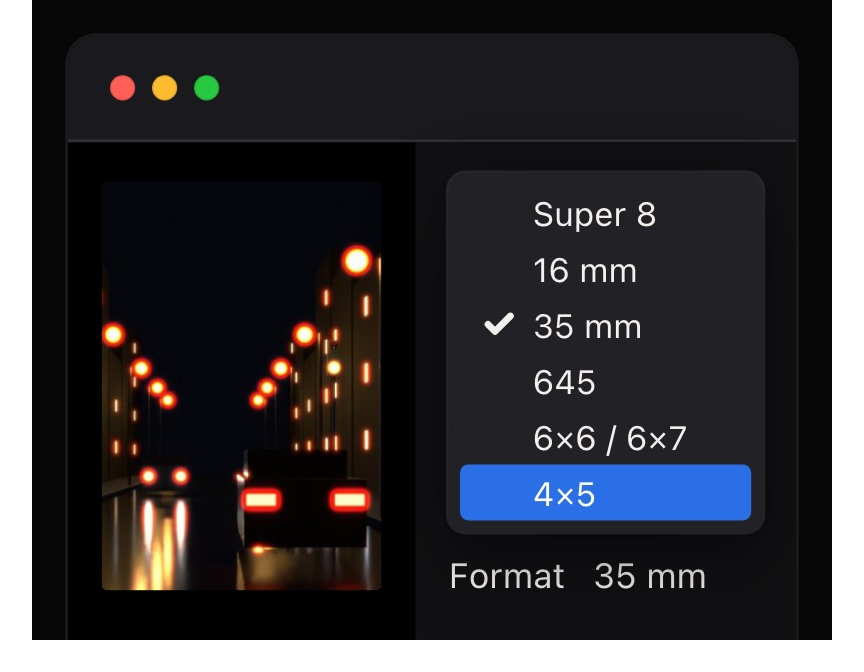
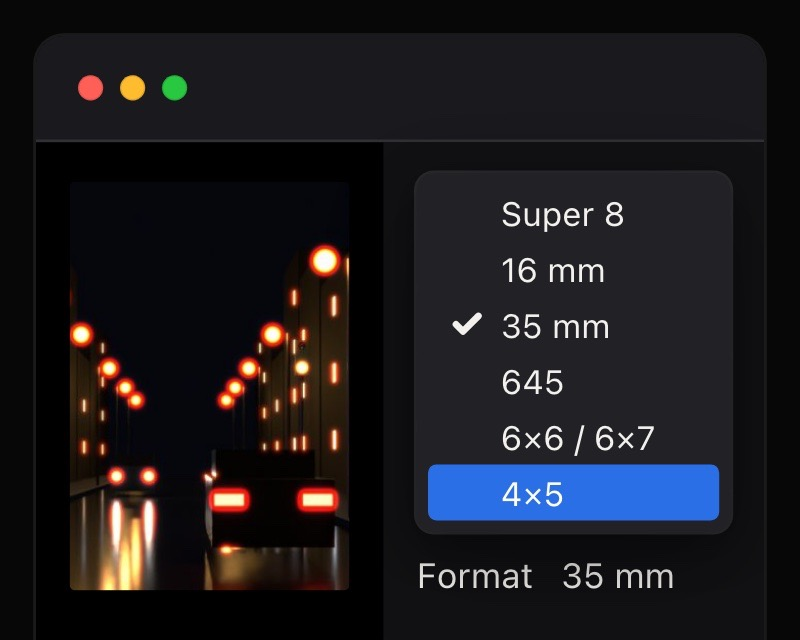
Review fixes: posters cropped, 42× stat and Export All wording, story points at the street, hero spacing; CLAUDE.md and handoff for the stageshow branch

Changed region(s): [[0.0, 0.0, 1.0, 1.0], [0.625, 0.2812, 0.7812, 0.4375], [0.0938, 0.0938, 0.25, 0.1562]]

diff --git a/index.html b/index.html
@@ -89,7 +89,7 @@
   </div>
   <div class="wrap">
     <figure class="stage stage--hero" data-stage="halo-hero" aria-label="Halo Pro: the Amount slider is dragged up and the street lamps grow their red halos; Format 16 mm widens them">
-      <img class="stage-poster" src="img/stage/halo-hero.jpg" width="2464" height="1312" alt="Halo Pro's window with a night street open: red halos around every lamp, the Amount slider at 1, Format 16 mm" loading="eager" fetchpriority="high">
+      <img class="stage-poster" src="img/stage/halo-hero.jpg" width="2400" height="1280" alt="Halo Pro's window with a night street open: red halos around every lamp, the Amount slider at 1, Format 16 mm" loading="eager" fetchpriority="high">
     </figure>
     <p class="shot-meta hero-caption">Drawn live, with the app's own controls. The street is a rendered scene with real light levels; the glow is Halo Pro's own export of it.</p>
   </div>
@@ -109,26 +109,26 @@
     <div class="bento">
       <article class="tile tile--wide">
         <figure class="stage" data-stage="halo-batch" aria-label="Batch Mode: a grid of photos, one selected, with Apply to All">
-          <img class="stage-poster" src="img/stage/halo-batch.jpg" width="1648" height="752" alt="A grid of photo thumbnails in Halo Pro's Batch Mode, one in focus with its name and an Apply to All button" loading="lazy">
+          <img class="stage-poster" src="img/stage/halo-batch.jpg" width="1584" height="720" alt="A grid of photo thumbnails in Halo Pro's Batch Mode, one in focus with its name and an Apply to All button" loading="lazy">
         </figure>
         <p class="tile-copy"><b>Batch Mode.</b> Up to 500 photos open at once, each with its own settings; Apply to All copies one look across the set.</p>
       </article>
       <article class="tile tile--stat">
-        <p class="stat"><span class="stat-lead">Glow at five stops over white</span><span class="stat-num">42×</span><span class="stat-label">the glow at white, measured on 32-bit test charts. It doubles with every stop, as on film.</span></p>
+        <p class="stat"><span class="stat-lead">Glow at five stops over white</span><span class="stat-num">42×</span><span class="stat-label">the glow at white, measured on 32-bit test charts. Film's glow grows with the light, about twice per stop. So does this.</span></p>
       </article>
       <article class="tile">
         <figure class="stage" data-stage="halo-format" aria-label="The Format menu: Super 8 to 4×5; picking a film changes how far the glow travels">
-          <img class="stage-poster" src="img/stage/halo-format.jpg" width="864" height="672" alt="Halo Pro's Format menu open over the Glow controls, 35 mm checked, the cursor on 4×5" loading="lazy">
+          <img class="stage-poster" src="img/stage/halo-format.jpg" width="800" height="640" alt="Halo Pro's Format menu open over the Glow controls, 35 mm checked, the cursor on 4×5" loading="lazy">
         </figure>
         <p class="tile-copy"><b>Format.</b> Pick the film your photo should look shot on, Super 8 to 4×5, and the glow takes that film's share of the frame.</p>
       </article>
       <article class="tile tile--statement">
         <p class="statement">One look in sRGB, Display&nbsp;P3, Adobe&nbsp;RGB and ProPhoto&nbsp;RGB.</p>
-        <p class="tile-copy">The glow and the mist are worked out in one working colour space, so a wide-gamut file from Lightroom glows exactly like its sRGB export. Your file keeps its profile.</p>
+        <p class="tile-copy">The glow and the mist are worked out in one working colour space, so a wide-gamut file from Lightroom glows like its sRGB export. Your file keeps its profile.</p>
       </article>
       <article class="tile">
         <figure class="stage" data-stage="halo-masking" aria-label="Halation › Masking: Sky Protection switched on">
-          <img class="stage-poster" src="img/stage/halo-masking.jpg" width="864" height="712" alt="Halo Pro's Masking panel: Luminance Range on, Sky Protection being switched on, Color Mask off" loading="lazy">
+          <img class="stage-poster" src="img/stage/halo-masking.jpg" width="800" height="680" alt="Halo Pro's Masking panel: Luminance Range on, Sky Protection being switched on, Color Mask off" loading="lazy">
         </figure>
         <p class="tile-copy"><b>Choose where it glows.</b> Keep it inside a brightness band, hold it back from the sky, or keep it to a colour you pick. Press a number key to see exactly what the engine uses.</p>
       </article>
@@ -576,7 +576,7 @@
     <div class="pro-grid">
       <div class="pro-item">
         <figure class="stage stage--return" data-stage="halo-return" aria-label="Save and return: the edit goes back to Lightroom Classic as a 16-bit TIFF">
-          <img class="stage-poster" src="img/stage/halo-return.jpg" width="864" height="632" alt="The top of Halo Pro's control column: Save and return has become Saved, and a line says a 16-bit TIFF was written back to Lightroom Classic" loading="lazy">
+          <img class="stage-poster" src="img/stage/halo-return.jpg" width="800" height="600" alt="The top of Halo Pro's control column: Save and return has become Saved, and a line says a 16-bit TIFF was written back to Lightroom Classic" loading="lazy">
         </figure>
         <h3>Lightroom Mode.</h3>
         <p>Add Halo Pro once in Lightroom Classic as an additional external editor. Then right-click a photo, Edit In, Halo Pro: Lightroom hands over a TIFF, you set the look, and Save and return writes a 16-bit TIFF back with its metadata. One photo at a time; for a set, export TIFFs from Lightroom, run them through Batch Mode and import the results back.</p>
@@ -584,7 +584,7 @@
       </div>
       <div class="pro-item">
         <h3>Batch Mode.</h3>
-        <p>Open up to 500 photos at once; loading stops if less than 1.5&nbsp;GB of memory is free. Each photo keeps its own settings. Apply to All copies one look across the set, and Cmd+C / Cmd+V copy a look between photos. The Batch Exp button writes every photo with its own settings and never overwrites a file: a name that's taken gets a number.</p>
+        <p>Open up to 500 photos at once; loading stops if less than 1.5&nbsp;GB of memory is free. Each photo keeps its own settings. Apply to All copies one look across the set, and Cmd+C / Cmd+V copy a look between photos. Export All writes every photo with its own settings and never overwrites a file: a name that's taken gets a number.</p>
       </div>
     </div>
 
@@ -598,7 +598,7 @@
       <div class="tier tier--main">
         <h3>Halo Pro</h3>
         <p class="price">€20<small>one-time, for one person</small></p>
-        <ul><li>Everything in Free</li><li>Lightroom Mode: Edit In, Save and return</li><li>Batch Mode, up to 500 photos</li><li>Licensed for paid work</li><li>Free updates in your Gumroad library</li></ul>
+        <ul><li>Everything in Free</li><li>Lightroom Mode: Edit In, Save and return</li><li>Batch Mode</li><li>Licensed for paid work</li><li>Free updates in your Gumroad library</li></ul>
         <a class="btn btn--solid" href="https://alriclj.gumroad.com/l/HALO_PRO?variant=Halo%20Pro&amp;wanted=true">Buy Pro · €20</a>
       </div>
       <div class="tier">
@@ -628,7 +628,7 @@
     </div>
     <div class="story">
       <h3>Where it comes from.</h3>
-      <p>Look at the street at the top of this page. Panning past at speed, a chrome strip catches the light and gets a red-orange edge; a lamp four stops over white gets a wide halo, and the dark wall beside it gets none. That is what film does. Light goes through the emulsion, bounces off the back of the base and comes back up into the red-sensitive layer, and only the brightest lights come back. Most glow effects blur everything bright and tint it red.</p>
+      <p>Look at the street at the top of this page. The brightest lamps get wide red-orange halos, the dimmer windows get small ones, and the dark walls between them get none. That is what film does. Light goes through the emulsion, bounces off the back of the base and comes back up into the red-sensitive layer, and only the brightest lights come back. Most glow effects blur everything bright and tint it red.</p>
       <p>I'm a photographer, and I build my own tools when the ones I can buy get the light wrong. In 2024 I started reading how halation really forms, and built a tool that does what the film does: the glow worked out from each light's colour and real brightness, in 32-bit float. It shipped in September. In October I checked it against the physics, threw the engine away and rebuilt it.</p>
       <p>The free version has every control. Pro is 20 euros, once. Try it on yours.</p>
       <p class="story-sign">Alric Ljunghager, Stockholm · <a href="mailto:alric.ljunghager@gmail.com">alric.ljunghager@gmail.com</a>. Settings › Help › Report Bug copies a report with the log; I read every one.</p>

diff --git a/style.css b/style.css
@@ -108,11 +108,11 @@ p { margin: 0 0 1em; }
 .hero-grain { position: absolute; inset: -200px; z-index: 1; pointer-events: none; opacity: .06; animation: grain .5s steps(1) infinite; }
 @keyframes grain { 0% { transform: translate(0, 0); } 20% { transform: translate(-83px, 47px); } 40% { transform: translate(61px, -112px); }
   60% { transform: translate(-129px, -38px); } 80% { transform: translate(104px, 91px); } }
-.hero-copy { position: relative; z-index: 2; padding-top: 150px; width: 100%; } /* full width inside the flex column */
+.hero-copy { position: relative; z-index: 2; padding-top: 120px; width: 100%; } /* full width inside the flex column */
 .hero h1 { font-size: var(--t-display); line-height: .94; letter-spacing: -0.045em; max-width: 9.5em; }
 .hero h1 em { font-style: normal; color: var(--red); text-shadow: var(--glow); }
-.hero-sub { margin-top: 32px; max-width: 30em; font-size: var(--t-lead); color: var(--fg-2); }
-.hero-cta { display: flex; align-items: center; gap: 28px; margin-top: 36px; flex-wrap: wrap; }
+.hero-sub { margin-top: 24px; max-width: 30em; font-size: var(--t-lead); color: var(--fg-2); }
+.hero-cta { display: flex; align-items: center; gap: 28px; margin-top: 28px; flex-wrap: wrap; }
 .hero-foot {
   position: absolute; z-index: 2; left: 0; right: 0; bottom: 28px;
 }
@@ -681,7 +681,7 @@ html:not(.js) .nav-toggle, html:not(.js) .toggle, html:not(.js) .tour-tabs, html
 /* once the demo mounts, its own frame replaces the poster */
 .stage:has(.ss-fit) .stage-poster { display: none; }
 .stage .ss-stage { border-radius: 10px; }
-.stage--hero { margin-top: 56px; }
+.stage--hero { margin-top: 40px; }
 .hero-caption { margin-top: 14px; }
 .hero { padding-bottom: 72px; }
 

diff --git a/CLAUDE.md b/CLAUDE.md
@@ -69,8 +69,16 @@ No pay-what-you-want wording on the site (owner, 2 Nov 2026), although Gumroad s
 Links: `https://alriclj.gumroad.com/l/HALO_PRO?variant=<Halo%20Pro | Halo%20Pro%20-%20FREE | Halo%20Pro%20-%20Organisation>&wanted=true`
 
 ## Files
-- `index.html` — single page; hero picture `img/hero.webp` (owner's); inline JS (before/after, panel switcher, light-path scroll steps + remjet toggle, scale figure, banding canvases, typed-value demo, menu).
-  v4 order: Result → Why it's different (red blur vs Halo Pro) → The app → Light path → Scale → Controls → Precision & files → Pro & pricing → Development. Long parts fold behind "Read more" (`details.more`).
+- `index.html` — single page. The app is shown with live stageshow demos (`<figure data-stage="halo-…">`, each with a filmed
+  poster `img/stage/*.jpg` for first paint and reduced motion); inline JS for the light-path scroll steps + remjet toggle,
+  scale figure, banding canvases, menu.
+- `stage/` — the stageshow kit (MIT; github.com/benjitaylor/skills) plus Halo Pro's look (`halo/look.css`), its own
+  controls (`halo/parts.tsx`) and the demos (`examples/halo-*`). Node 20.19+; `npm install --cache $TMPDIR/npm-cache`.
+  Preview: `.claude/launch.json` → `stage` (Vite, `?capture=<id>`). Build the site bundle with `npm run build:site` →
+  `stage-build/` (committed; the page loads `stage-build/halo-stage.js` and `.css`). Film with
+  `node scripts/film.mjs <url> --select '#example' --gate` (Chrome must run outside the Bash sandbox). Every demo passes
+  the gate at desktop and 390 before it ships; posters are `--still` frames of `#example .ss-stage`.
+  Order (Nov 2026): hero with the live window → Built for professional files (feature grid of demos) → What a red blur gets wrong → How it compares → Light path → Scale → Controls → Precision & files → Pro & pricing (with the Save and return demo and the story) → Development. Long parts fold behind "Read more" (`details.more`).
 - `style.css` — tokens in `:root` (colours, and the six type sizes `--t-small` … `--t-display`). Fonts: Inter Tight + IBM Plex Mono (Google Fonts). Red glow (`--glow`) only on display-size red type (owner's request); the red second line only on the hero, the Light path heading and the note's title (owner, 2 Nov 2026).
 - `img/app/` — real app screenshots and exports. `img/ex*`, `hero-wave.jpg` — older images, unused by v4. `_old/` — previous versions, reference only.
 - `HANDOFF.md` — state of the v4 redesign, open decisions, publish checklist.
@@ -78,5 +86,5 @@ Links: `https://alriclj.gumroad.com/l/HALO_PRO?variant=<Halo%20Pro | Halo%20Pro%
 
 ## Working rules
 - Preview with `python3 -m http.server 8000`, check 1440px and 390px widths, no horizontal scroll, no console errors.
-- Respect `prefers-reduced-motion`. Keep it a static site (no framework, no bundler).
+- Respect `prefers-reduced-motion`. The page stays static HTML; the only build step is the demos' bundle in `stage/`, and its output is committed.
 - Don't push to `main` without Alric's OK — that publishes halopro.app.

diff --git a/HANDOFF.md b/HANDOFF.md
@@ -162,6 +162,15 @@ app as a believable product instead of screenshots in boxes.
   before/after slider (and its Saab/snow photos, rights unclear) and the screenshot tour.
 - The story under the price is the 7 Nov draft (four drafts, sentence-checked, judged by photographer readers); it
   claims no photo as Alric's.
+- Fresh-eye review of the built page (7 Nov, from stills). Fixed: posters had a 16px white border from the capture
+  (cropped with sips); the 42× stat said "doubles per stop" (42× at +5 stops is the note's measured figure, film's
+  32× is the proportional line); "Batch Exp" → Export All (the app's button); the story pointed at the street but
+  described a chrome strip; hero spacing tightened so the lit street shows at 1440×900. Open, for the owner: the
+  first screen is still mostly copy (the photo starts at ~770px; the fix would be copy beside the window, bleeding
+  off the right); the street is a render and reads as one; window chrome four times (hero, Format, Masking,
+  Return — crop the tiles to their control?); picture tiles and filled tiles are two frame families; the Pro
+  section's right column is a dead corner; Format poster highlights 4×5 while the field reads 35 mm; Masking has a
+  cursor resting on nothing.
 
 ## Comparison, coming next, lamp vs shirt (5 Nov 2026)
 
